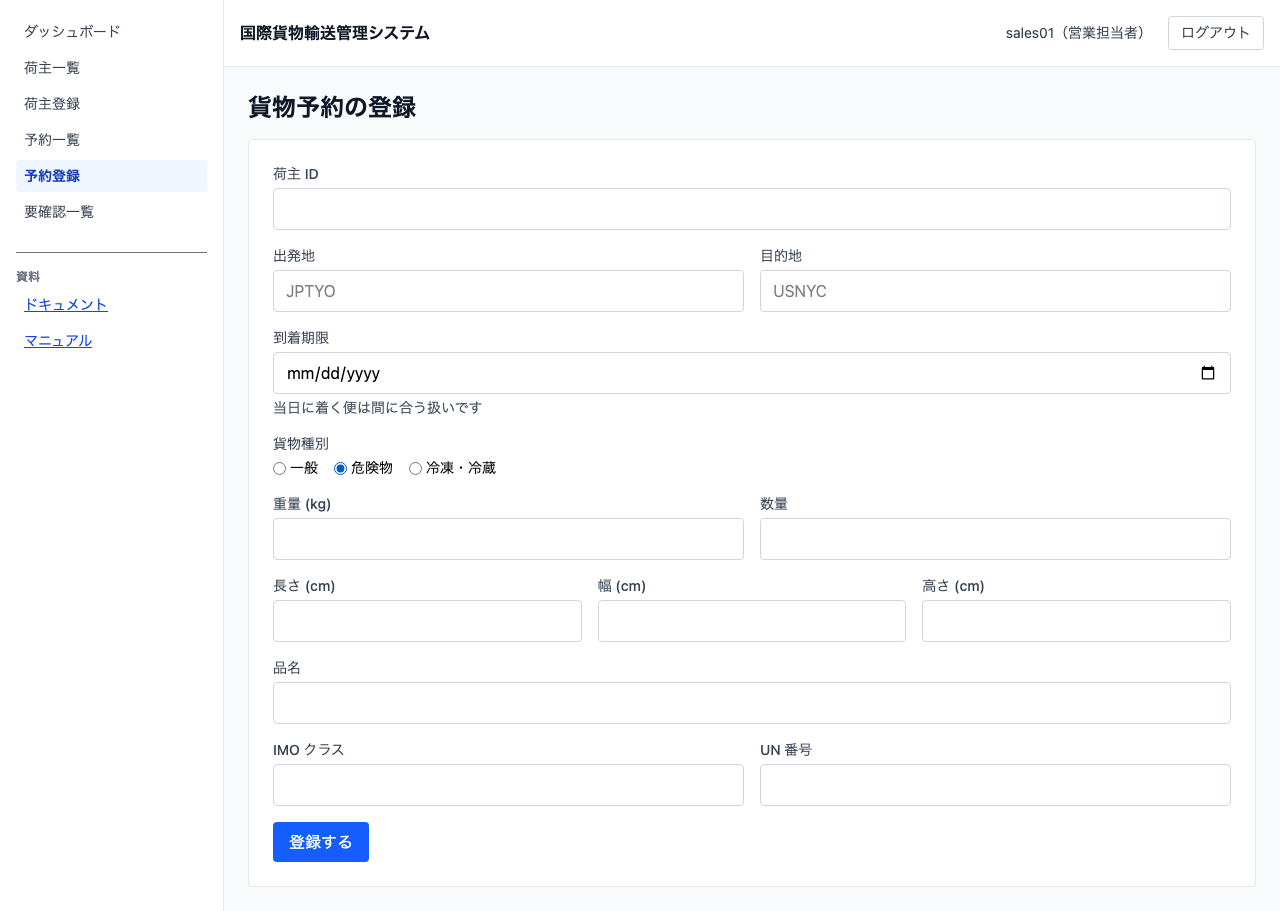
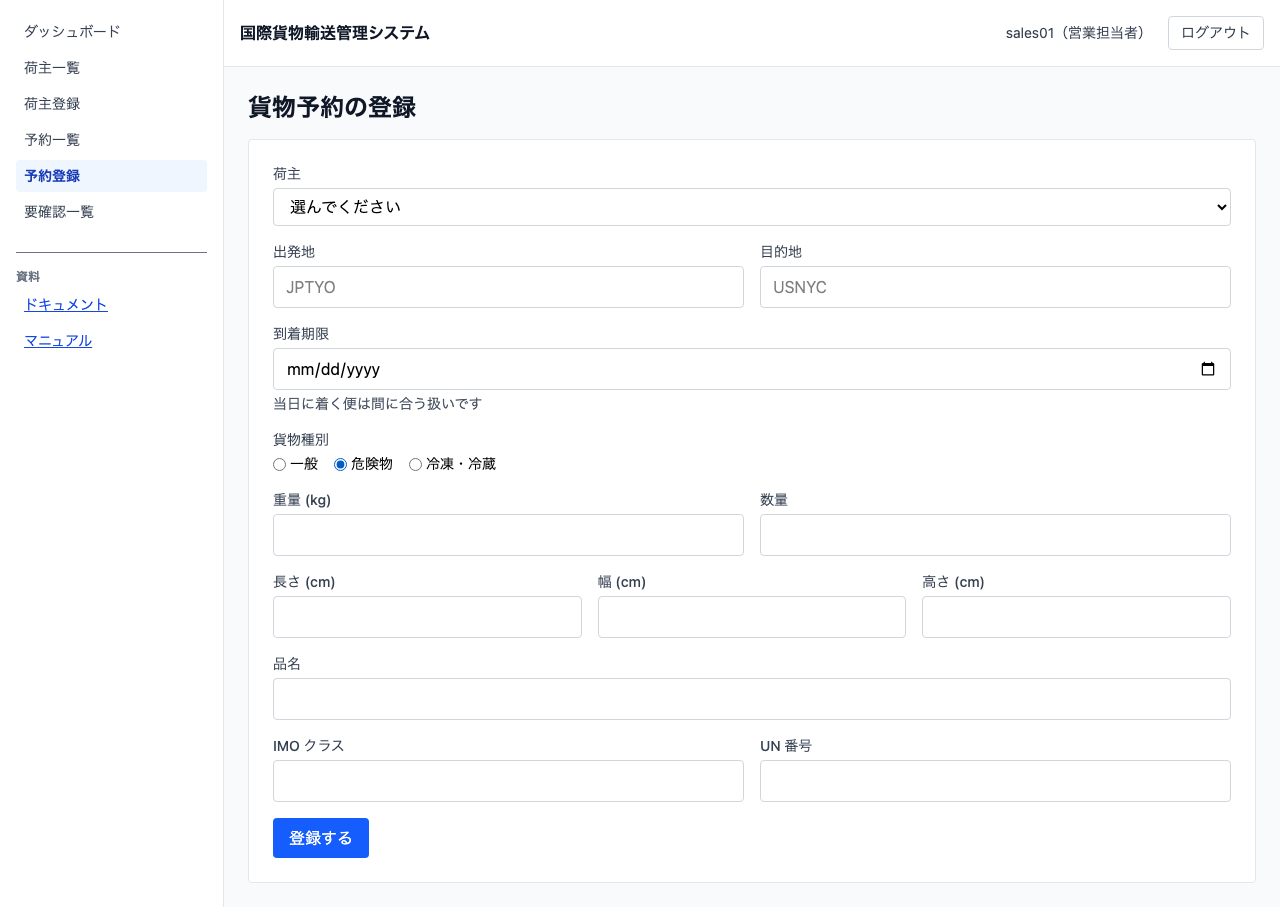
docs(review): IT2 実装のマルチパースペクティブレビュー結果を残す
**並列レビューは 2 イテレーション連続で結果を返さなかった。** 起動後
10 分で全員 idle になり、催促にも応答がない。IT1 の Try 6 は「並列を
使うなら結果が届くまでクローズを確定しない」だったが、2 回とも届かない
以上、並列を既定にすること自体をやめる（ふりかえりに書く）。

5 視点を逐次にたどり、高 2 / 中 2 / 低 1 を得た。高・中の 4 件は
クローズ前に直した。

- H1 リプレイのたびに要確認一覧が増える（別コミットで修正済み）
- H2 予約詳細のロール制御が到達性の検査から外れていた。ナビに載せない
  画面ほど権限の設定を間違えても気づけない。許可をずらすと赤になる
  ことを確認した
- M1 マニュアルが古い手順（荷主 ID の入力）のままだった。実装は途中で
  「一覧から選ぶ」に変わっていた。キャプチャも再生成した
- M2 ADR-0003 決定 6 の検査がメールアドレスしか見ておらず、氏名や住所を
  載せる変更を素通りさせた

Claude-Session: https://claude.ai/code/session_01Cb1HX5HH7eHaWGJKtvekB1

diff --git a/apps/cargo-tracker/frontend/src/app/routes.test.tsx b/apps/cargo-tracker/frontend/src/app/routes.test.tsx
@@ -110,3 +110,33 @@ describe('403 の見え方', () => {
     expect(within(screen.getByRole('navigation')).getByText('荷主一覧')).toBeInTheDocument();
   });
 });
+
+describe('一覧から開く画面（ナビに載せない）', () => {
+  // ナビに載せない画面は、上のロール別到達性の検査から外れる。**外れた画面ほど
+  // 権限の設定を間違えても気づけない**ので、ここで明示的に確かめる。
+  // 許可ロールは一覧（/bookings）と揃える。一覧に出ている行を開けないと、
+  // 「一覧には出るのに詳細は 403」になる。
+  const DETAIL_PATH = '/bookings/b-1';
+  const ALLOWED: readonly Role[] = ['ROLE_SALES', 'ROLE_ROUTING', 'ROLE_TRACKER'];
+
+  it.each(ALLOWED)('%s: 予約詳細を開ける', (role) => {
+    loginAs([role]);
+    renderAt(DETAIL_PATH);
+
+    expect(screen.queryByText('この画面を開く権限がありません')).not.toBeInTheDocument();
+  });
+
+  it.each(ROLES.filter((r) => !ALLOWED.includes(r)))('%s: 予約詳細は 403 になる', (role) => {
+    loginAs([role]);
+    renderAt(DETAIL_PATH);
+
+    expect(screen.getByText('この画面を開く権限がありません')).toBeInTheDocument();
+  });
+
+  it('予約一覧を開けるロールは、その詳細も開ける', () => {
+    // 一覧と詳細で許可がずれると「一覧には出るのに開くと 403」になる。
+    const listAllow = NAVIGATION.find((i) => i.path === '/bookings')?.allow ?? [];
+
+    expect([...ALLOWED].sort()).toEqual([...listAllow].sort());
+  });
+});

diff --git a/apps/cargo-tracker/backend/bookingms/src/test/java/com/example/cargotracker/booking/interfaces/rest/ShipperControllerIT.java b/apps/cargo-tracker/backend/bookingms/src/test/java/com/example/cargotracker/booking/interfaces/rest/ShipperControllerIT.java
@@ -202,7 +202,12 @@ class ShipperControllerIT extends AbstractAxonIntegrationTest {
                     .retrieve().toEntity(JsonMap.class).getBody().get("items").toString();
             assertThat(body).contains("メールアドレスの重複");
             // 応答に payload（個人情報）は載せない。載せるのは識別子だけ（ADR-0003 決定 6）。
+            //
+            // メールアドレスが出ないことだけを見ると、氏名や住所を載せる変更を
+            // 素通りさせる。**payload という項目そのものが応答に無いこと**を見る。
             assertThat(body).doesNotContain(email);
+            assertThat(body).doesNotContain("payload");
+            assertThat(body).doesNotContain("山田商事");
             assertThat(body).contains("relatedShipperId=");
         });
     }

diff --git a/docs/review/cargo-tracker/IT2実装_review_20260904.md b/docs/review/cargo-tracker/IT2実装_review_20260904.md
@@ -1,0 +1,105 @@
+---
+type: Review
+title: "IT2 実装レビュー（2026-09-04）"
+tags: [review]
+status: draft
+generated: { by: claude-code/claude-opus-5, at: 2026-09-04T04:24:02Z }
+---
+
+# IT2 実装レビュー（2026-09-04）
+
+## 実施の形
+
+**並列レビュー（5 エージェント）は 2 イテレーション連続で結果を返しませんでした。** 起動後 10 分で全員 idle になり、催促にも応答がありません。IT1 のふりかえり Try 6 は「並列を使うなら結果が届くまでクローズを確定しない」でしたが、**2 回とも届かない以上、並列を既定にすること自体をやめます**（ふりかえり参照）。
+
+本レビューは 5 視点を逐次にたどる形で実施しました。対象は `649eeb7ac..HEAD` の 20 コミット・143 ファイルです。
+
+## 結果
+
+| 優先度 | 件数 | 対応 |
+| :--- | :--: | :--- |
+| 高 | 2 | 2 件ともクローズ前に修正 |
+| 中 | 2 | 2 件ともクローズ前に修正 |
+| 低 | 1 | IT3 へ |
+
+**IT2 では開発中にも欠陥を 7 件見つけて直しています**（下の「開発中に見つけたもの」）。レビューで新たに出たのはここに挙げる 5 件です。
+
+## 高
+
+### H1. リプレイのたびに要確認一覧が増える（architect / tester）
+
+**`ADR-0001` のコンプライアンス欄が「`ReplayIT` は未実装」のまま 2 IT 続いていました。** IT2 で投影が 3 つに増え（`shipper`・`cargo`・`shipper_contract_snapshot`）、投影が `attention_item` への書き込みという**副作用**を持つに至ったので、Reaction Handler を待たずに書きました。
+
+**書いた時点で実在の欠陥が出ました。** 弾かれた登録を読み直すたびに要確認一覧が増えます。
+
+| | |
+| :--- | :--- |
+| 場所 | `AttentionItemRecorder.java:32`（当時） |
+| 原因 | 識別子が `UUID.randomUUID()`。同じ事実に毎回別の行を作る |
+| なぜ気づけなかったか | `attention_item` は追記専用でリプレイでも消さない（`data-model.md`）。「行が増えない」ことを確かめる検査が投影テーブルにしか無かった |
+| 業務での見え方 | 営業が毎朝見る要確認一覧が、同じ内容で読み直しの回数だけ膨らむ。件数が信用されなくなる |
+| 対応 | **修正済み**（`5248a4c99`）。識別子を「何が・どの対象で・なぜ」から導き、`ON CONFLICT DO NOTHING`。上書きはしない（確認済みを消してしまう） |
+
+**ArchUnit の `onlyInterfacesAndReactionSendCommands` はコンパイル時の依存しか見ておらず、実行時に呼ばれないことの保証ではありません。** ADR の表の 1 行が文章のまま残っていると、こういう形で欠陥が残ります。
+
+### H2. 予約詳細のロール制御が到達性の検査から外れていた（user-representative）
+
+| | |
+| :--- | :--- |
+| 場所 | `routes.tsx:51`・`routes.test.tsx` |
+| 何が起きるか | 予約詳細（`/bookings/:bookingId`）はナビに載せないため、`routes.test.tsx` のロール別到達性（`NAVIGATION` を回す）の対象外だった。**外れた画面ほど権限の設定を間違えても気づけない** |
+| 業務での見え方 | 一覧には出るのに開くと 403、あるいはその逆 |
+| 対応 | **修正済み**。許可ロールを明示的に検査し、あわせて「一覧を開けるロールは詳細も開ける」ことを固定した。許可をずらすと赤になることを確認 |
+
+## 中
+
+### M1. マニュアルが古い手順のままだった（technical-writer）
+
+| | |
+| :--- | :--- |
+| 場所 | `docs/manual/05-貨物予約を登録する.md:31` |
+| 何が起きるか | 「『荷主 ID』を入力します」と書いてあるが、実装は途中で「一覧から選ぶ」に変わった（クラスタ E2E で UI 設計との食い違いが出たため）。営業は無い入力欄を探す |
+| 対応 | **修正済み**。キャプチャも再生成した |
+
+**実装を変えたときにマニュアルを見に行く経路が無い**のが原因です。マニュアルは画面を変えた IT でだけ更新する運びになっており、IT の途中で画面を変えると取り残されます。
+
+### M2. ADR-0003 決定 6 の検査が緩い（architect）
+
+| | |
+| :--- | :--- |
+| 場所 | `ShipperControllerIT.java:204` |
+| 何が起きるか | 「応答に payload を載せない」の検査が、**メールアドレスが出ないこと**しか見ていなかった。氏名や住所を載せる変更を素通りさせる |
+| 対応 | **修正済み**。`payload` という項目そのものが応答に無いこと、氏名が出ないことを足した |
+
+## 低
+
+### L1. `attention_item` の識別子の形（programmer）
+
+内容から導いた識別子を UUID の見た目に整形している（`AttentionItemRecorder.itemIdOf`）。UUID ではないのに UUID に見えるので、将来「UUID として扱う」コードが書かれうる。列は `VARCHAR(36)` なので実害は無いが、IT3 以降で `attention_item` を触るときに型を見直す。
+
+## 開発中に見つけたもの（レビュー以前）
+
+IT2 は**開発の途中で 7 件**の欠陥を見つけて直しています。レビューだけに頼っていれば残っていたものです。
+
+| # | 何 | どう見つけたか |
+| :--- | :--- | :--- |
+| 1 | `@EventTag` が無いと集約が空のまま復元される | `Cargo` の「2 度目を断る」を書いたら、`AxonTestFixture` でも実 Axon Server でも通らなかった |
+| 2 | 重複で弾いた 1 件で投影が全停止 | US04 の受け入れテストを足したら、その前のシナリオの後で投影が動かなくなっていた |
+| 3 | 集約が断ると 500 | 個人の荷主の REST 検査（IT1 レビュー M8）を足したら出た |
+| 4 | REST が個人の契約情報を黙って捨てる | 同上 |
+| 5 | `check` が JaCoCo レポートを更新しない | Sonar の `new_coverage` が JaCoCo と合わなかった |
+| 6 | Sonar が TS 用の引数で Java の設定を上書き | 同上 |
+| 7 | S21 の荷主入力が UI 設計と違う | **kind クラスタに対する E2E でのみ露見**（単体もモックの E2E も通っていた） |
+
+## 良い点
+
+- **壊して赤を見ることを全タスクで実施した**（Q.1）。ロック 3 通り・解除 2 通り・契約投影 2 通り・`@EventTag`・フロント 3 通り。すべて赤になった
+- **デモ項目との対応表をテスト名でなく本文のアサーションで作った**（Q.2）。IT1 は名前だけがデモ項目を謳うテストを数えていた
+- **クラスタに対する E2E を DoD に入れた**。単体とモックが通る欠陥（S21 の荷主入力）を、実際に配ったもので初めて捕まえた
+- **散らばりを検査で固定した**。Axon Server コンテナの組み立てが 3 か所にあり、起動猶予を片方だけ直して全体ビルドだけが落ちていた。1 か所に集め、2 か所目を作ると赤になる検査を置いた
+
+## 関連ドキュメント
+
+- [イテレーション計画 2](../../development/cargo-tracker/iteration_plan-2.md)
+- [ADR-0001](../../adr/cargo-tracker/0001-cqrs-es-with-axon-in-microservices.md)・[ADR-0003](../../adr/cargo-tracker/0003-crypto-shredding-for-personal-data.md)
+- [IT1 実装レビュー](IT1実装_review_20260903.md)

diff --git a/docs/review/cargo-tracker/index.md b/docs/review/cargo-tracker/index.md
@@ -8,6 +8,7 @@ cargo-tracker プロジェクトのレビュードキュメントです。
 | :--- | :--- | :--- |
 | [設計レビュー（2026-09-02）](設計_review_20260902.md) | 設計 10 件・ADR 2 件（draft） | XP エージェント 5 名。高 20 / 中 24 / 低 8。条件付きで進めてよい。高 17 件を修正、1 件をスコープ外と明記、2 件を次工程へ |
 | [IT1 実装レビュー（2026-09-03）](IT1実装_review_20260903.md) | IT1 の実装 89 コミット（バックエンド・フロント・運用・ドキュメント） | 5 視点を直接たどる（並列エージェントが結果を返さず）。高 4 / 中 6 / 低 3。高 3 件と中 1 件をクローズ前に修正、残りは IT2 へ |
+| [IT2 実装レビュー（2026-09-04）](IT2実装_review_20260904.md) | IT2 の実装 20 コミット・143 ファイル | 5 視点を直接たどる（並列エージェントが**2 回連続で**結果を返さず）。高 2 / 中 2 / 低 1。高・中の 4 件をクローズ前に修正。開発中に別途 7 件を発見・修正 |
 
 ## 補足
 

diff --git a/docs/manual/05-貨物予約を登録する.md b/docs/manual/05-貨物予約を登録する.md
@@ -3,7 +3,7 @@ type: Manual
 title: "05 貨物予約を登録する"
 tags: [manual]
 status: draft
-generated: { by: claude-code/claude-opus-5, at: 2026-09-03T22:52:09Z }
+generated: { by: claude-code/claude-opus-5, at: 2026-09-04T04:24:02Z }
 ---
 
 # 05 貨物予約を登録する
@@ -28,7 +28,7 @@ generated: { by: claude-code/claude-opus-5, at: 2026-09-03T22:52:09Z }
 
    ![予約登録](assets/05-S21-booking-register.png)
 
-2. 「荷主 ID」を入力します。荷主一覧（[03 荷主を登録する](03-荷主を登録する.md)）で確認できます
+2. 「荷主」を一覧から選びます。「名称（荷主コード）」で並んでいます。目的の荷主が無い場合は先に登録してください（[03 荷主を登録する](03-荷主を登録する.md)）
 3. 「出発地」「目的地」を UN/LOCODE（英大文字 5 文字。例 `JPTYO`）で入力します
 4. 「到着期限」を選びます。**その日に着く便は間に合う扱いです**
 5. 「貨物種別」を選びます

diff --git a/docs/log.md b/docs/log.md
@@ -1,6 +1,8 @@
 # Docs Update Log
 
 ## 2026-09-04
+* **Creation**: [IT2実装_review_20260904](/review/cargo-tracker/IT2実装_review_20260904.md) を作成（claude-code/claude-opus-5）
+* **Update**: [05-貨物予約を登録する](/manual/05-貨物予約を登録する.md) を更新（claude-code/claude-opus-5）
 * **Update**: [0001-cqrs-es-with-axon-in-microservices](/adr/cargo-tracker/0001-cqrs-es-with-axon-in-microservices.md) を更新（claude-code/claude-opus-5）
 * **Update**: [iteration_plan-2](/development/cargo-tracker/iteration_plan-2.md) を更新（claude-code/claude-opus-5）
 * **Update**: [iteration_plan-2](/development/cargo-tracker/iteration_plan-2.md) を更新（claude-code/claude-opus-5）
